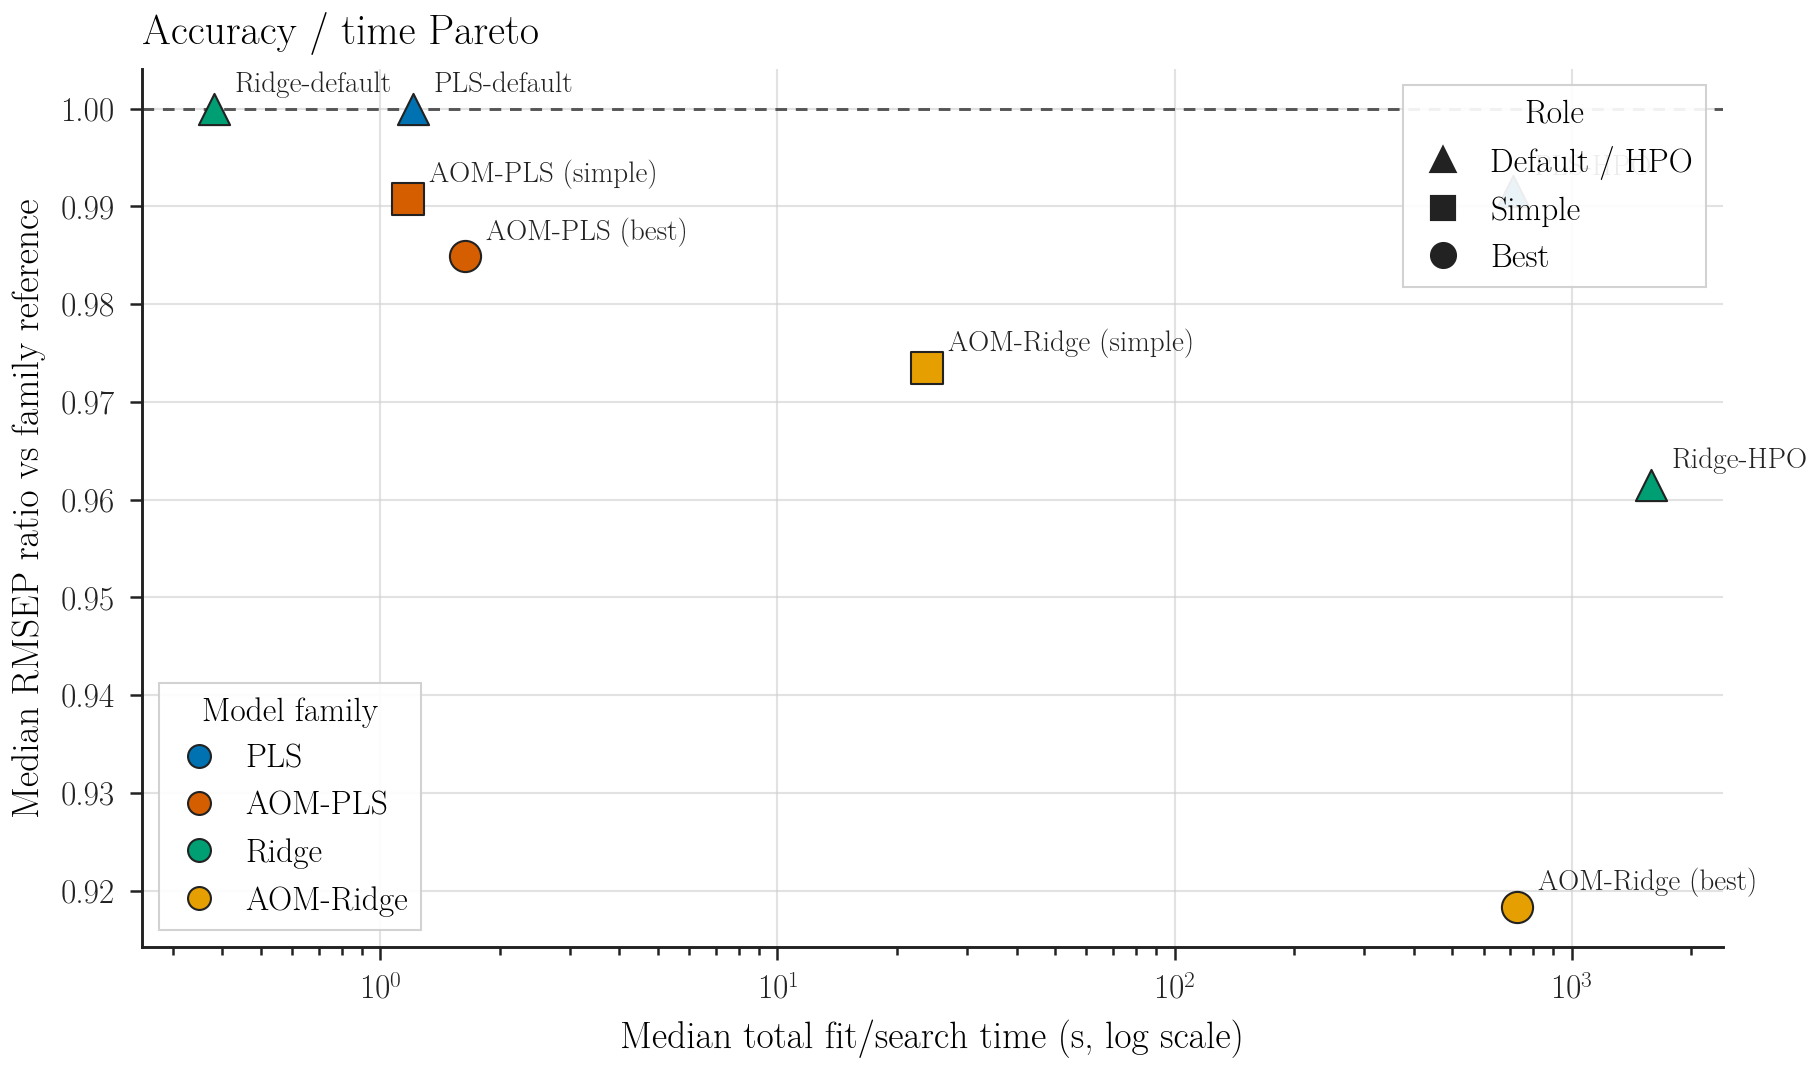
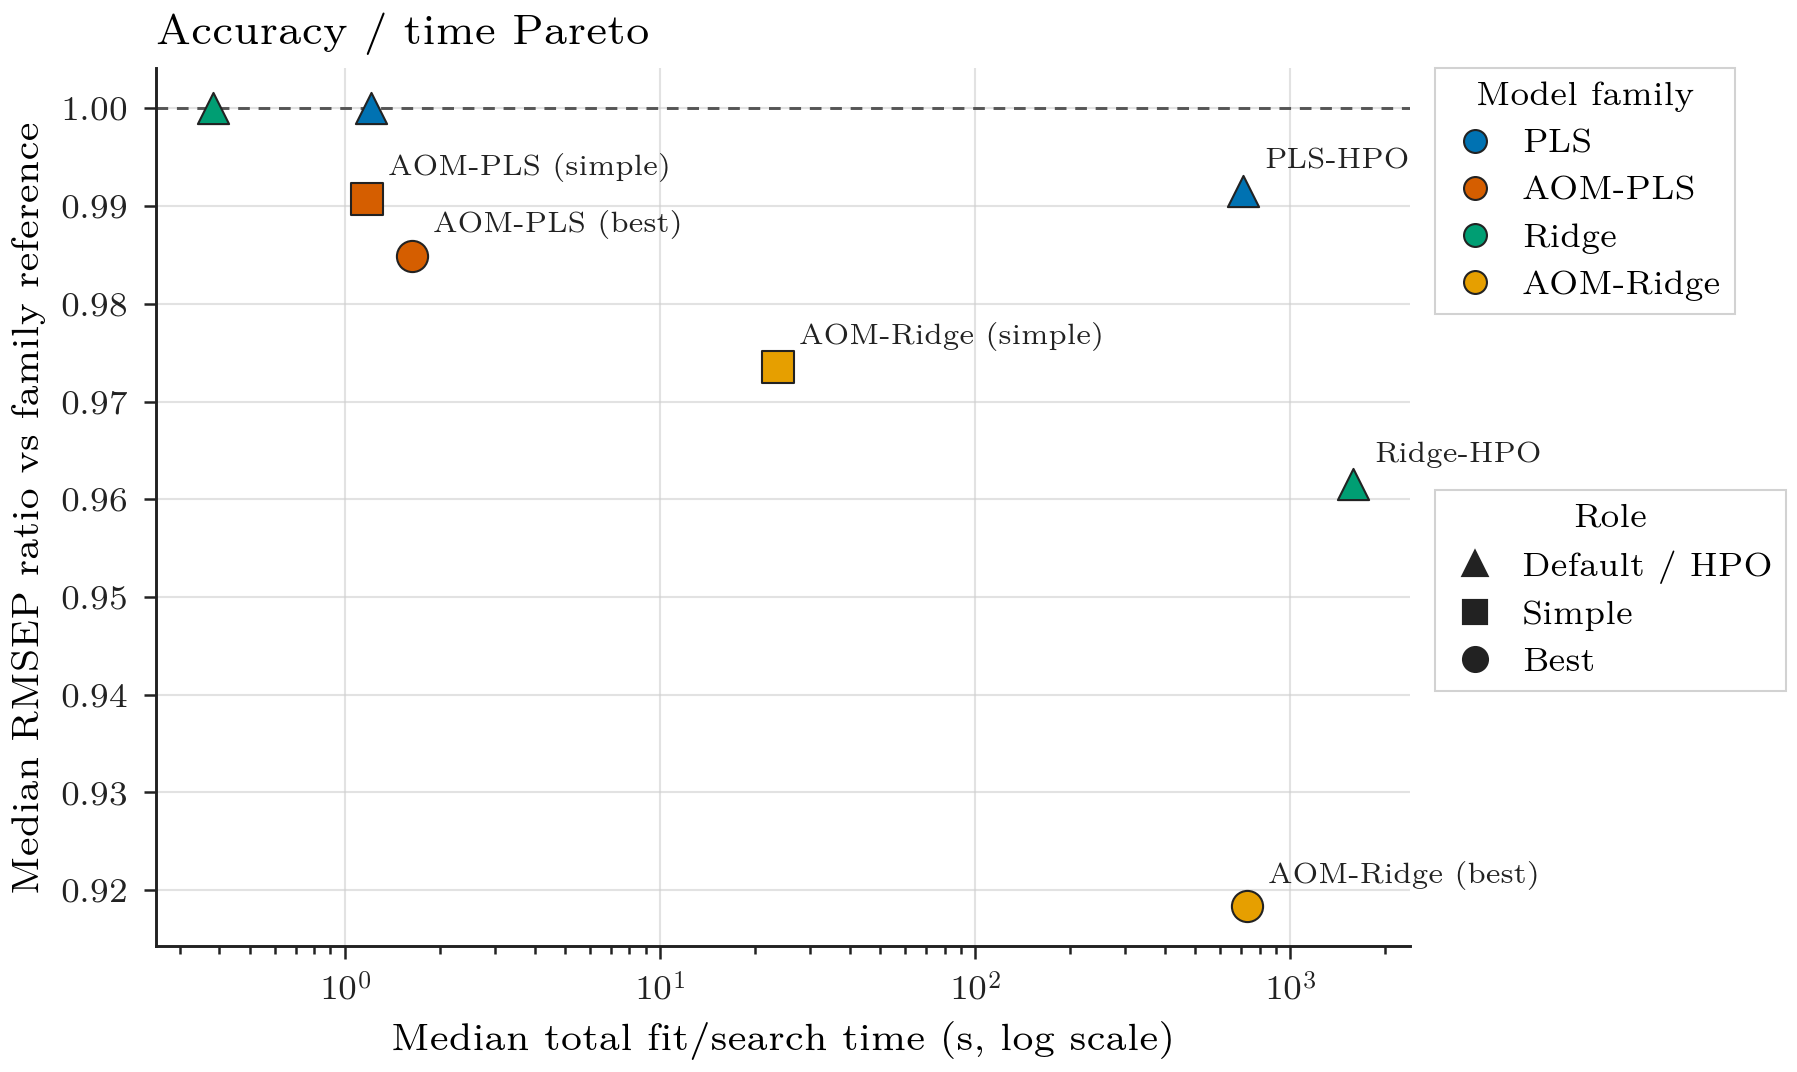
Move Pareto legend outside plot

diff --git a/paper/review/build_paper_figures.py b/paper/review/build_paper_figures.py
@@ -1482,7 +1482,10 @@ def build_accuracy_time(rows: list[dict], dfs: dict[str, pd.DataFrame]) -> None:
         ("AOM-Ridge (simple)", by_label["AOMRidge-global-compact-none vs Ridge-default"]["stats"]["median"], "AOM-Ridge", "s"),
         ("AOM-Ridge (best)", by_label["AOMRidge-Blender vs Ridge-default"]["stats"]["median"], "AOM-Ridge", "o"),
     ]
+    annotation_offsets = {}
+    labels_to_skip = {"PLS-default", "Ridge-default"}
     fig, ax = plt.subplots(figsize=FIGSIZE_WIDE)
+    fig.subplots_adjust(right=0.74)
     for label, ratio, family, marker in points:
         x = time_lookup.get(label, float("nan"))
         if not (np.isfinite(x) and np.isfinite(ratio)):
@@ -1497,7 +1500,18 @@ def build_accuracy_time(rows: list[dict], dfs: dict[str, pd.DataFrame]) -> None:
             label=family,
             zorder=3,
         )
-        ax.annotate(label, (x, ratio), xytext=(5, 4), textcoords="offset points", fontsize=7.0, color=COLOR_AXIS)
+        if label not in labels_to_skip:
+            dx, dy, ha, va = annotation_offsets.get(label, (5, 4, "left", "bottom"))
+            ax.annotate(
+                label,
+                (x, ratio),
+                xytext=(dx, dy),
+                textcoords="offset points",
+                fontsize=7.0,
+                color=COLOR_AXIS,
+                ha=ha,
+                va=va,
+            )
     family_handles = [
         Line2D([0], [0], marker="o", linestyle="", markersize=5.5,
                markerfacecolor=FAMILY_COLORS[fam], markeredgecolor=COLOR_AXIS,
@@ -1509,11 +1523,25 @@ def build_accuracy_time(rows: list[dict], dfs: dict[str, pd.DataFrame]) -> None:
         Line2D([0], [0], marker="s", linestyle="", color=COLOR_AXIS, markersize=5.5, label="Simple"),
         Line2D([0], [0], marker="o", linestyle="", color=COLOR_AXIS, markersize=5.5, label="Best"),
     ]
-    leg1 = ax.legend(family_handles, [h.get_label() for h in family_handles], loc="lower left",
-                     title="Model family", title_fontsize=8.0)
+    leg1 = ax.legend(
+        family_handles,
+        [h.get_label() for h in family_handles],
+        loc="upper left",
+        bbox_to_anchor=(1.02, 1.0),
+        borderaxespad=0.0,
+        title="Model family",
+        title_fontsize=8.0,
+    )
     ax.add_artist(leg1)
-    ax.legend(role_handles, [h.get_label() for h in role_handles], loc="upper right",
-              title="Role", title_fontsize=8.0)
+    ax.legend(
+        role_handles,
+        [h.get_label() for h in role_handles],
+        loc="upper left",
+        bbox_to_anchor=(1.02, 0.52),
+        borderaxespad=0.0,
+        title="Role",
+        title_fontsize=8.0,
+    )
     ax.axhline(1.0, color=COLOR_REFERENCE, linewidth=0.7, linestyle=(0, (4, 3)), zorder=1)
     ax.set_xscale("log")
     ax.set_xlabel(r"Median total fit/search time (s, log scale)")
